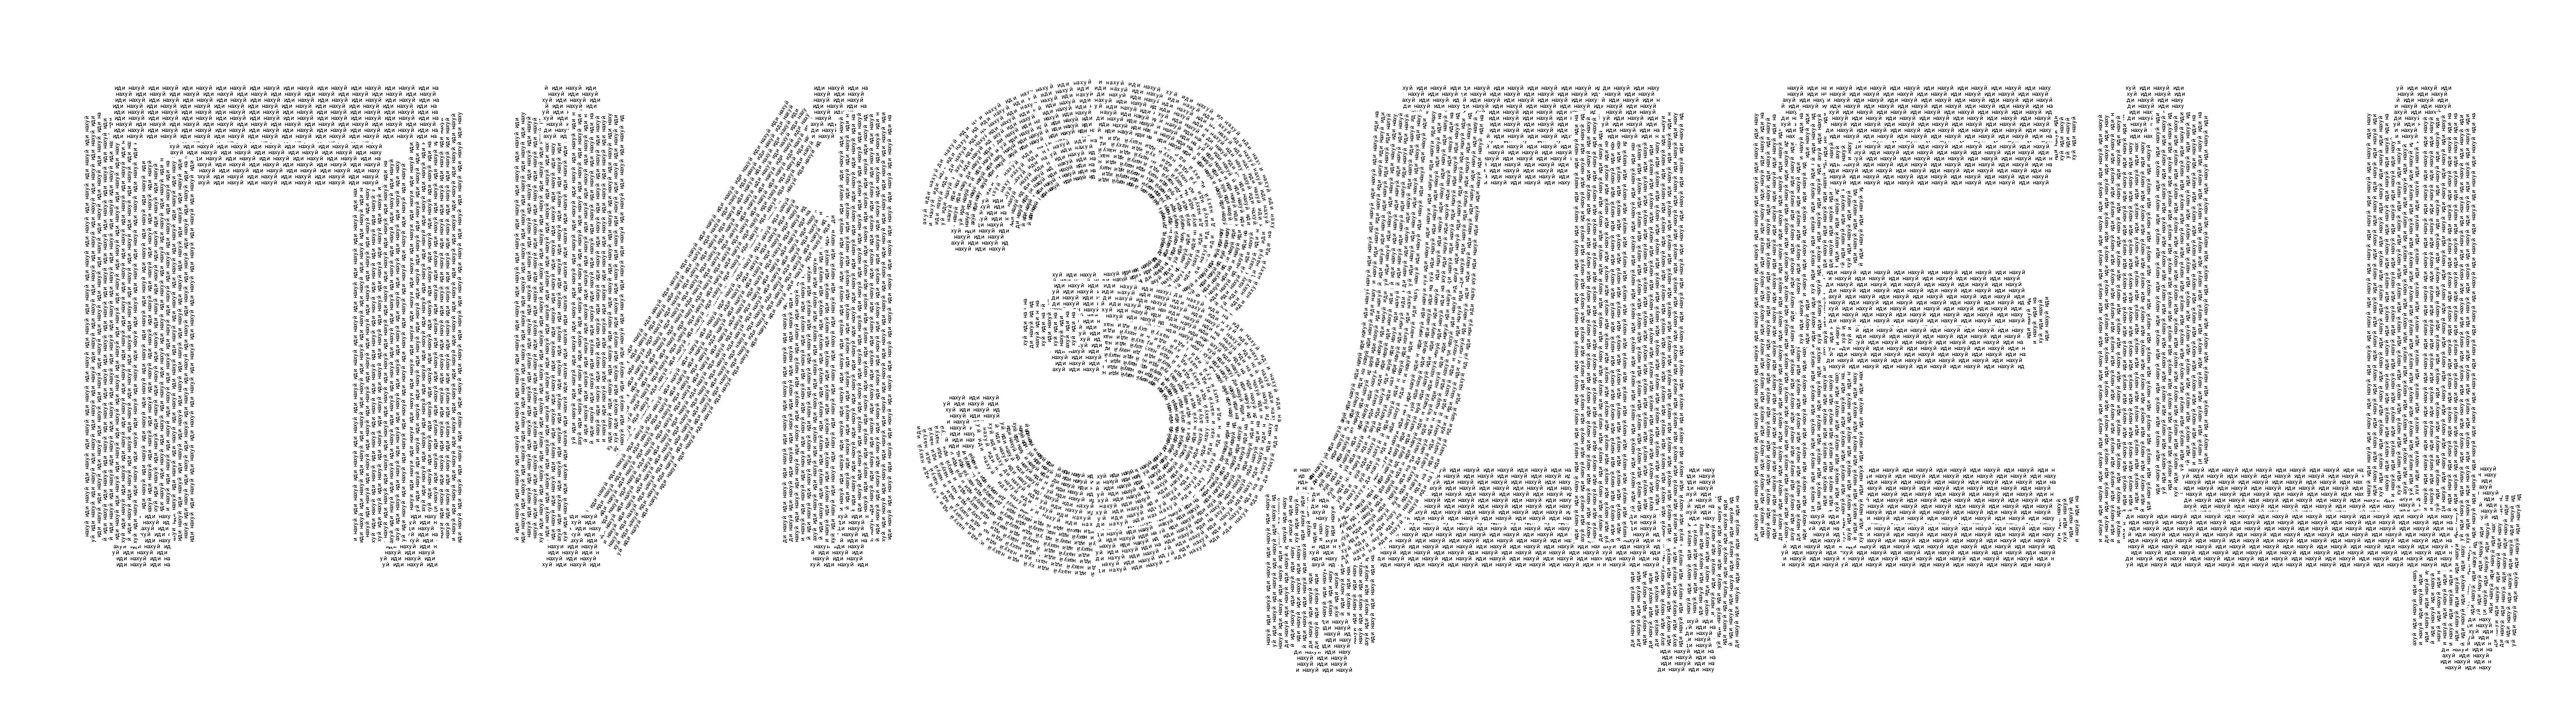
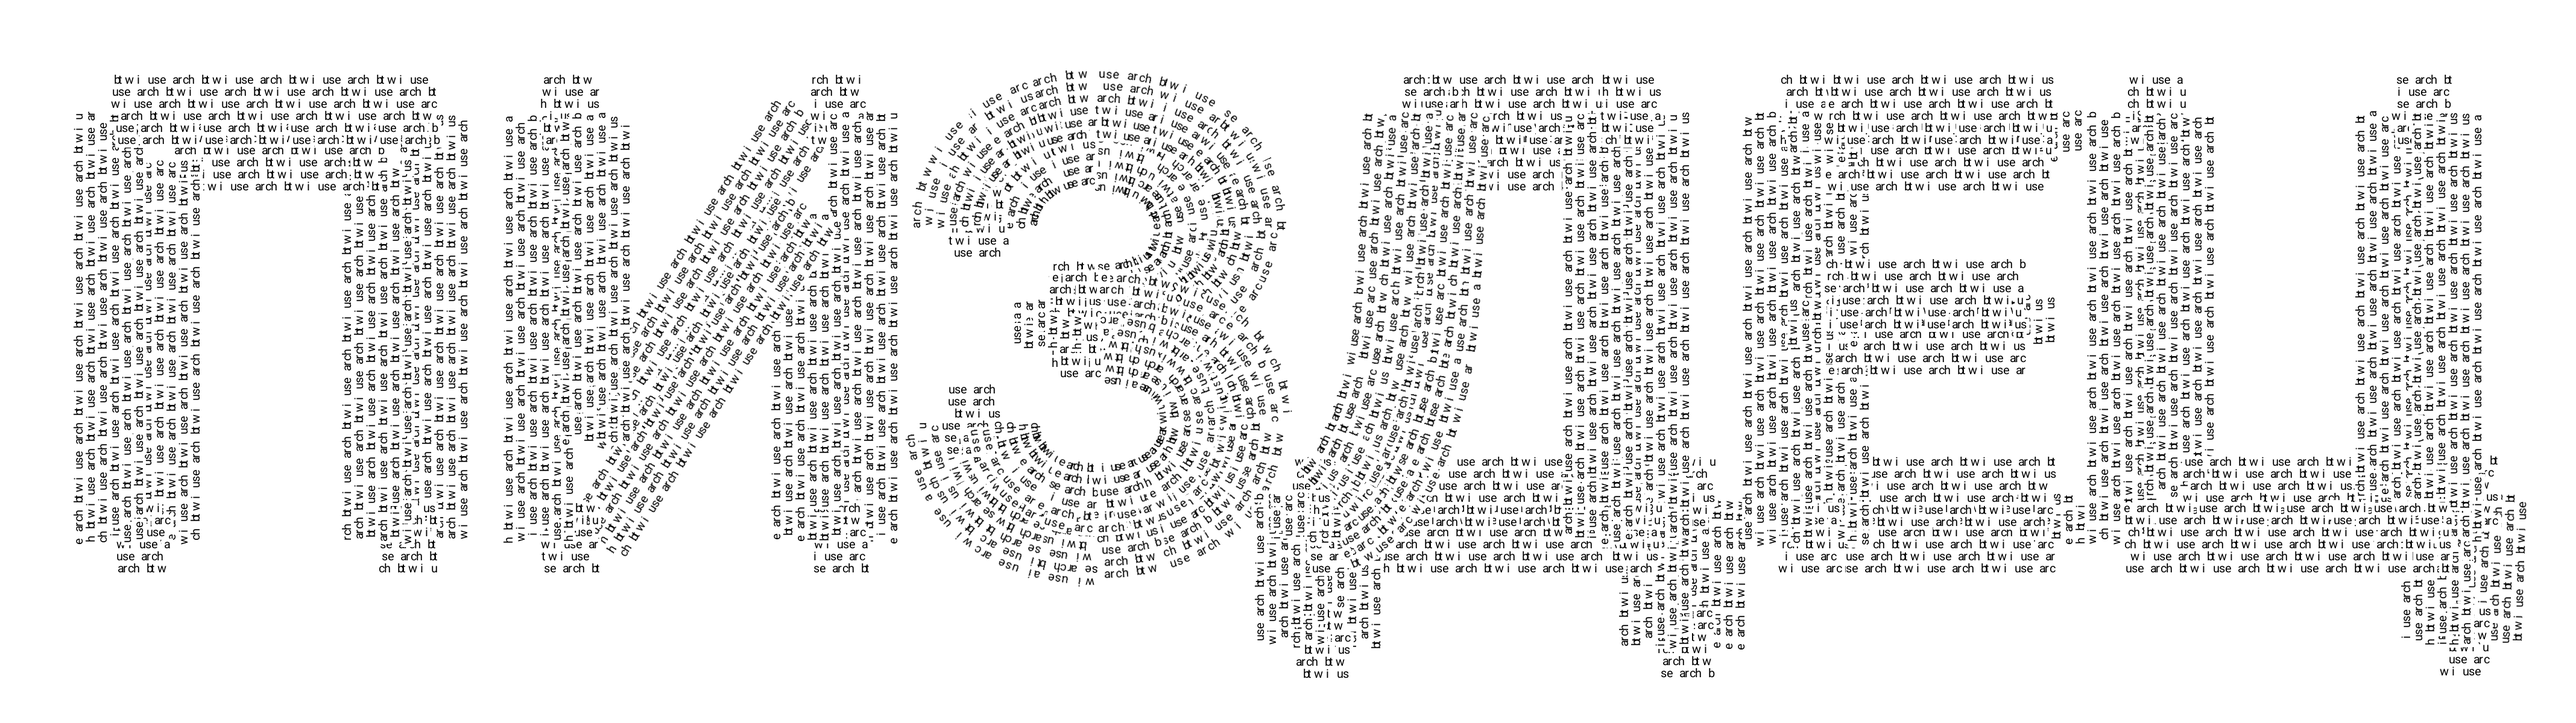
add askii rasterizer

Changed region(s): [[0.0311, 0.0925, 0.9963, 0.9558]]

diff --git a/TODO.md b/TODO.md
@@ -25,3 +25,15 @@ Add background to main text letter by letter:
 - Draw a background shape behind each main text letter before rendering filler
 - Could use the glyph bounding box or actual glyph outline with padding
 - Useful for improving contrast/readability of the final output
+
+## Fix Filler Letters Center of Mass
+Inconsistent horizontal spacing between filler letters on a single row:
+- Some letters clump together, others have too much padding on left/right
+
+Proposed fix (X adjustment only, no vertical adjustment):
+1. Sum brightness for each vertical column (X position) of the rasterized glyph
+2. Find the X position that represents the horizontal center of mass
+3. Normalize all glyph widths to the same size (use the largest needed)
+   - Pre-scan all filler characters to find max width
+   - Position each glyph so its center of mass aligns with bbox center
+4. Spacing is then uniform: each glyph occupies the same horizontal space
